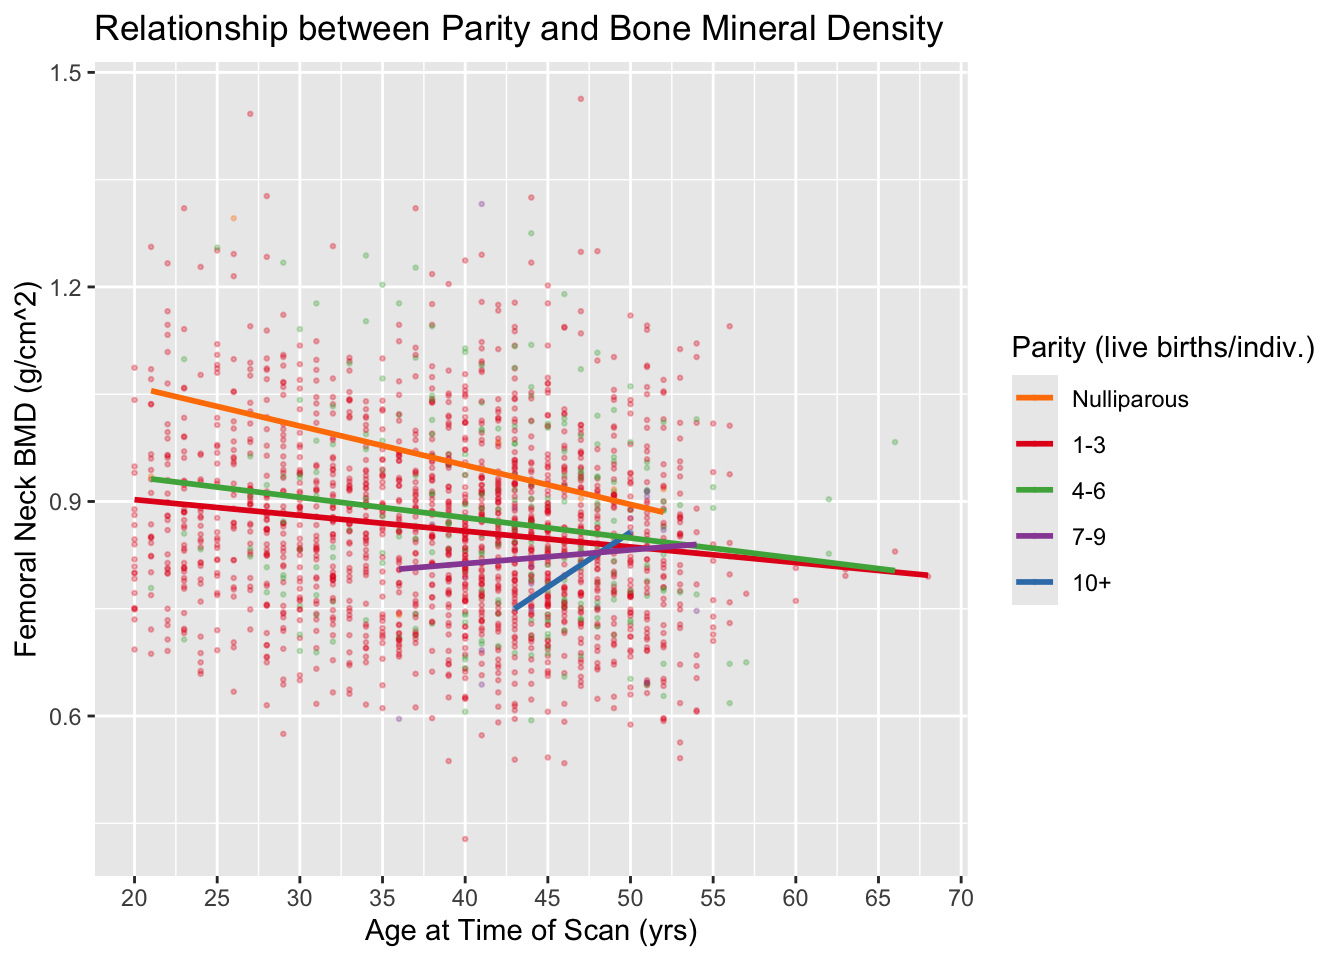
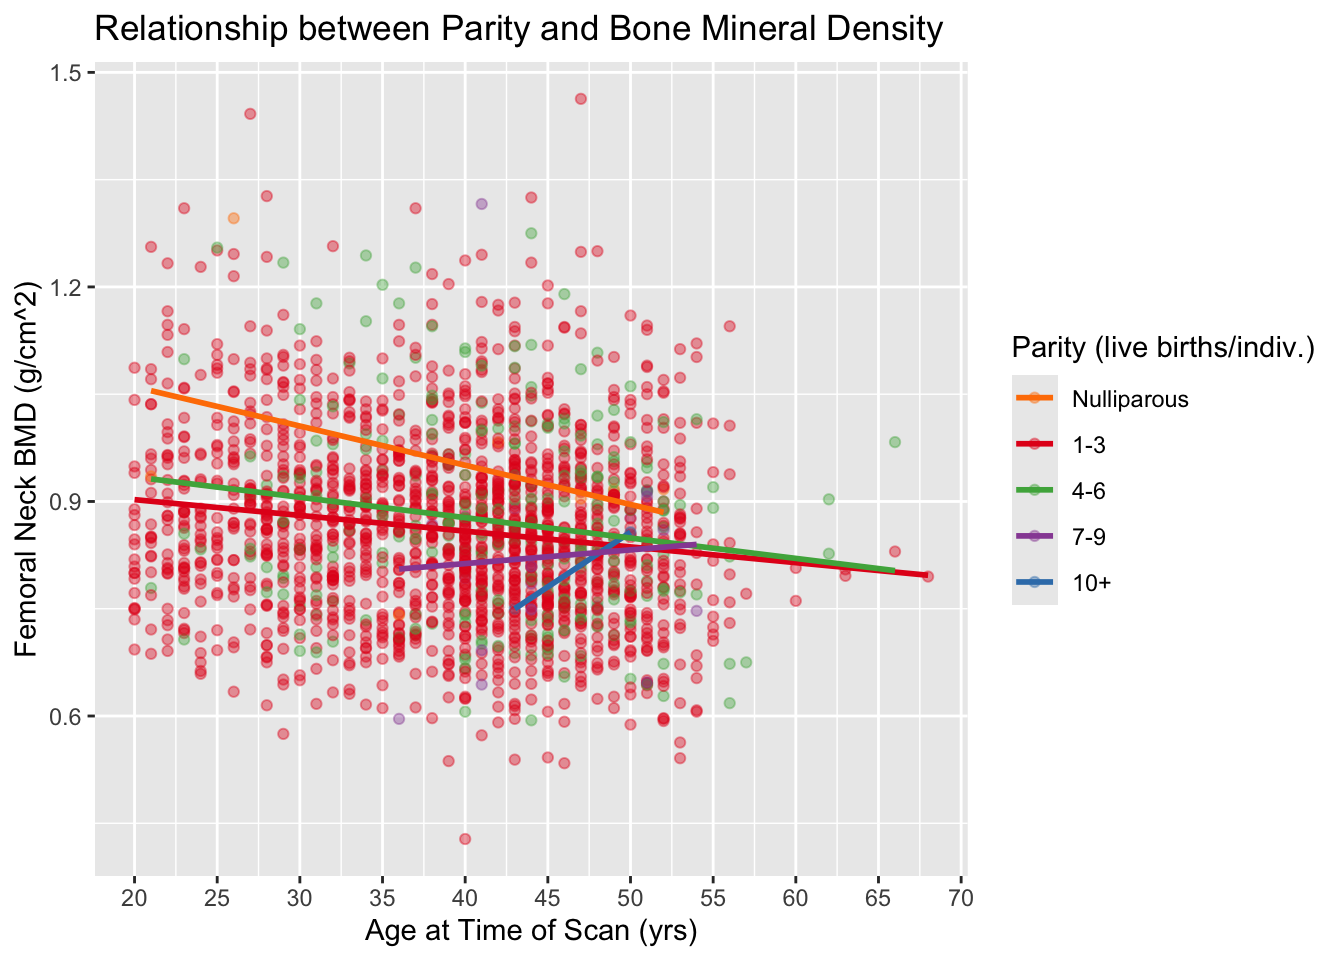
Build site.

diff --git a/docs/analysis.html b/docs/analysis.html
@@ -513,15 +513,15 @@ project makes it easier to run your code on other machines.</p>
 <div class="panel panel-default">
 <div class="panel-heading">
 <p class="panel-title">
-<a data-toggle="collapse" data-parent="#workflowr-checks" href="#strongRepositoryversionstrongahrefhttpsgithubcomcalliquireafbploaaba2025tree35f522218d7bed757a3df731d65090213bc7fdfetargetblank35f5222a">
+<a data-toggle="collapse" data-parent="#workflowr-checks" href="#strongRepositoryversionstrongahrefhttpsgithubcomcalliquireafbploaaba2025tree3853d4d8e3b5dbf5b7f75b25e7be7a337e487ea5targetblank3853d4da">
 <span class="glyphicon glyphicon-ok text-success"
 aria-hidden="true"></span> <strong>Repository version:</strong>
-<a href="https://github.com/calliquire/afb_plo_aaba_2025/tree/35f522218d7bed757a3df731d65090213bc7fdfe" target="_blank">35f5222</a>
+<a href="https://github.com/calliquire/afb_plo_aaba_2025/tree/3853d4d8e3b5dbf5b7f75b25e7be7a337e487ea5" target="_blank">3853d4d</a>
 </a>
 </p>
 </div>
 <div
[2 lines of base64/hex data omitted]
 class="panel-collapse collapse">
 <div class="panel-body">
 <p>
@@ -531,7 +531,7 @@ reproducibility.
 </p>
 <p>
 The results in this page were generated with repository version
-<a href="https://github.com/calliquire/afb_plo_aaba_2025/tree/35f522218d7bed757a3df731d65090213bc7fdfe" target="_blank">35f5222</a>.
+<a href="https://github.com/calliquire/afb_plo_aaba_2025/tree/3853d4d8e3b5dbf5b7f75b25e7be7a337e487ea5" target="_blank">3853d4d</a>.
 See the <em>Past versions</em> tab to see a history of the changes made
 to the R Markdown and HTML files.
 </p>
@@ -550,7 +550,6 @@ Ignored files:
     Ignored:    .RData
     Ignored:    .Rhistory
     Ignored:    .Rproj.user/
-    Ignored:    analysis/figure/
 
 </code></pre>
 <p>
@@ -595,6 +594,40 @@ Message
 </tr>
 </thead>
 <tbody>
+<tr>
+<td>
+Rmd
+</td>
+<td>
+<a href="https://github.com/calliquire/afb_plo_aaba_2025/blob/3853d4d8e3b5dbf5b7f75b25e7be7a337e487ea5/analysis/analysis.Rmd" target="_blank">3853d4d</a>
+</td>
+<td>
+Calli Quire
+</td>
+<td>
+2025-03-11
+</td>
+<td>
+wflow_publish("analysis/analysis.Rmd")
+</td>
+</tr>
+<tr>
+<td>
+html
+</td>
+<td>
+<a href="https://rawcdn.githack.com/calliquire/afb_plo_aaba_2025/5deec848632ecebc1d965d248fcd2c88b3dfc8b4/docs/analysis.html" target="_blank">5deec84</a>
+</td>
+<td>
+Calli Quire
+</td>
+<td>
+2025-03-11
+</td>
+<td>
+Build site.
+</td>
+</tr>
 <tr>
 <td>
 Rmd
@@ -1764,61 +1797,61 @@ more actual analysis
 <h2>Download, install, run relevant packages</h2>
 <pre><code>
 The downloaded binary packages are in
-    /var/folders/ps/8glpgwws46q79hzcgj61tlsr0000gn/T//RtmpfhFL2O/downloaded_packages</code></pre>
+    /var/folders/ps/8glpgwws46q79hzcgj61tlsr0000gn/T//Rtmp2PZTHI/downloaded_packages</code></pre>
 <pre><code>
 The downloaded binary packages are in
-    /var/folders/ps/8glpgwws46q79hzcgj61tlsr0000gn/T//RtmpfhFL2O/downloaded_packages</code></pre>
+    /var/folders/ps/8glpgwws46q79hzcgj61tlsr0000gn/T//Rtmp2PZTHI/downloaded_packages</code></pre>
 <pre><code>
 The downloaded binary packages are in
-    /var/folders/ps/8glpgwws46q79hzcgj61tlsr0000gn/T//RtmpfhFL2O/downloaded_packages</code></pre>
+    /var/folders/ps/8glpgwws46q79hzcgj61tlsr0000gn/T//Rtmp2PZTHI/downloaded_packages</code></pre>
 <pre><code>
 The downloaded binary packages are in
-    /var/folders/ps/8glpgwws46q79hzcgj61tlsr0000gn/T//RtmpfhFL2O/downloaded_packages</code></pre>
+    /var/folders/ps/8glpgwws46q79hzcgj61tlsr0000gn/T//Rtmp2PZTHI/downloaded_packages</code></pre>
 <pre><code>
 The downloaded binary packages are in
-    /var/folders/ps/8glpgwws46q79hzcgj61tlsr0000gn/T//RtmpfhFL2O/downloaded_packages</code></pre>
+    /var/folders/ps/8glpgwws46q79hzcgj61tlsr0000gn/T//Rtmp2PZTHI/downloaded_packages</code></pre>
 <pre><code>
 The downloaded binary packages are in
-    /var/folders/ps/8glpgwws46q79hzcgj61tlsr0000gn/T//RtmpfhFL2O/downloaded_packages</code></pre>
+    /var/folders/ps/8glpgwws46q79hzcgj61tlsr0000gn/T//Rtmp2PZTHI/downloaded_packages</code></pre>
 <pre><code>
 The downloaded binary packages are in
-    /var/folders/ps/8glpgwws46q79hzcgj61tlsr0000gn/T//RtmpfhFL2O/downloaded_packages</code></pre>
+    /var/folders/ps/8glpgwws46q79hzcgj61tlsr0000gn/T//Rtmp2PZTHI/downloaded_packages</code></pre>
 <pre><code>
 The downloaded binary packages are in
-    /var/folders/ps/8glpgwws46q79hzcgj61tlsr0000gn/T//RtmpfhFL2O/downloaded_packages</code></pre>
+    /var/folders/ps/8glpgwws46q79hzcgj61tlsr0000gn/T//Rtmp2PZTHI/downloaded_packages</code></pre>
 <pre><code>
 The downloaded binary packages are in
-    /var/folders/ps/8glpgwws46q79hzcgj61tlsr0000gn/T//RtmpfhFL2O/downloaded_packages</code></pre>
+    /var/folders/ps/8glpgwws46q79hzcgj61tlsr0000gn/T//Rtmp2PZTHI/downloaded_packages</code></pre>
 <pre><code>
 The downloaded binary packages are in
-    /var/folders/ps/8glpgwws46q79hzcgj61tlsr0000gn/T//RtmpfhFL2O/downloaded_packages</code></pre>
+    /var/folders/ps/8glpgwws46q79hzcgj61tlsr0000gn/T//Rtmp2PZTHI/downloaded_packages</code></pre>
 <pre><code>
 The downloaded binary packages are in
-    /var/folders/ps/8glpgwws46q79hzcgj61tlsr0000gn/T//RtmpfhFL2O/downloaded_packages</code></pre>
+    /var/folders/ps/8glpgwws46q79hzcgj61tlsr0000gn/T//Rtmp2PZTHI/downloaded_packages</code></pre>
 <pre><code>
 The downloaded binary packages are in
-    /var/folders/ps/8glpgwws46q79hzcgj61tlsr0000gn/T//RtmpfhFL2O/downloaded_packages</code></pre>
+    /var/folders/ps/8glpgwws46q79hzcgj61tlsr0000gn/T//Rtmp2PZTHI/downloaded_packages</code></pre>
 <pre><code>
 The downloaded binary packages are in
-    /var/folders/ps/8glpgwws46q79hzcgj61tlsr0000gn/T//RtmpfhFL2O/downloaded_packages</code></pre>
+    /var/folders/ps/8glpgwws46q79hzcgj61tlsr0000gn/T//Rtmp2PZTHI/downloaded_packages</code></pre>
 <pre><code>
 The downloaded binary packages are in
-    /var/folders/ps/8glpgwws46q79hzcgj61tlsr0000gn/T//RtmpfhFL2O/downloaded_packages</code></pre>
+    /var/folders/ps/8glpgwws46q79hzcgj61tlsr0000gn/T//Rtmp2PZTHI/downloaded_packages</code></pre>
 <pre><code>
 The downloaded binary packages are in
-    /var/folders/ps/8glpgwws46q79hzcgj61tlsr0000gn/T//RtmpfhFL2O/downloaded_packages</code></pre>
+    /var/folders/ps/8glpgwws46q79hzcgj61tlsr0000gn/T//Rtmp2PZTHI/downloaded_packages</code></pre>
 <pre><code>
 The downloaded binary packages are in
-    /var/folders/ps/8glpgwws46q79hzcgj61tlsr0000gn/T//RtmpfhFL2O/downloaded_packages</code></pre>
+    /var/folders/ps/8glpgwws46q79hzcgj61tlsr0000gn/T//Rtmp2PZTHI/downloaded_packages</code></pre>
 <pre><code>
 The downloaded binary packages are in
-    /var/folders/ps/8glpgwws46q79hzcgj61tlsr0000gn/T//RtmpfhFL2O/downloaded_packages</code></pre>
+    /var/folders/ps/8glpgwws46q79hzcgj61tlsr0000gn/T//Rtmp2PZTHI/downloaded_packages</code></pre>
 <pre><code>
 The downloaded binary packages are in
-    /var/folders/ps/8glpgwws46q79hzcgj61tlsr0000gn/T//RtmpfhFL2O/downloaded_packages</code></pre>
+    /var/folders/ps/8glpgwws46q79hzcgj61tlsr0000gn/T//Rtmp2PZTHI/downloaded_packages</code></pre>
 <pre><code>
 The downloaded binary packages are in
-    /var/folders/ps/8glpgwws46q79hzcgj61tlsr0000gn/T//RtmpfhFL2O/downloaded_packages</code></pre>
+    /var/folders/ps/8glpgwws46q79hzcgj61tlsr0000gn/T//Rtmp2PZTHI/downloaded_packages</code></pre>
 <pre><code>
 Attaching package: &#39;dplyr&#39;</code></pre>
 <pre><code>The following objects are masked from &#39;package:stats&#39;:
@@ -2476,6 +2509,17 @@ Date
 <tbody>
 <tr>
 <td>
+<a href="https://github.com/calliquire/afb_plo_aaba_2025/blob/5deec848632ecebc1d965d248fcd2c88b3dfc8b4/docs/figure/analysis.Rmd/unnamed-chunk-20-3.png" target="_blank">5deec84</a>
+</td>
+<td>
+Calli Quire
+</td>
+<td>
+2025-03-11
+</td>
+</tr>
+<tr>
+<td>
 <a href="https://github.com/calliquire/afb_plo_aaba_2025/blob/63e080404f588fe58127857297b82ba4f31fbd90/docs/figure/analysis.Rmd/unnamed-chunk-20-3.png" target="_blank">63e0804</a>
 </td>
 <td>
@@ -2571,6 +2615,17 @@ Date
 <tbody>
 <tr>
 <td>
+<a href="https://github.com/calliquire/afb_plo_aaba_2025/blob/5deec848632ecebc1d965d248fcd2c88b3dfc8b4/docs/figure/analysis.Rmd/unnamed-chunk-20-4.png" target="_blank">5deec84</a>
+</td>
+<td>
+Calli Quire
+</td>
+<td>
+2025-03-11
+</td>
+</tr>
+<tr>
+<td>
 <a href="https://github.com/calliquire/afb_plo_aaba_2025/blob/63e080404f588fe58127857297b82ba4f31fbd90/docs/figure/analysis.Rmd/unnamed-chunk-20-4.png" target="_blank">63e0804</a>
 </td>
 <td>
@@ -2641,6 +2696,17 @@ Date
 <tbody>
 <tr>
 <td>
+<a href="https://github.com/calliquire/afb_plo_aaba_2025/blob/5deec848632ecebc1d965d248fcd2c88b3dfc8b4/docs/figure/analysis.Rmd/unnamed-chunk-20-5.png" target="_blank">5deec84</a>
+</td>
+<td>
+Calli Quire
+</td>
+<td>
+2025-03-11
+</td>
+</tr>
+<tr>
+<td>
 <a href="https://github.com/calliquire/afb_plo_aaba_2025/blob/63e080404f588fe58127857297b82ba4f31fbd90/docs/figure/analysis.Rmd/unnamed-chunk-20-5.png" target="_blank">63e0804</a>
 </td>
 <td>
@@ -2657,7 +2723,7 @@ Calli Quire
 <pre class="r"><code># ***********************afb
 plot5 &lt;-
   ggplot(df, aes(x = AGE, y = BMD, color = BINS)) + 
-  geom_point(alpha = 0.4, size = 0.5) +
+  geom_point(alpha = 0.4) +
   labs(title = &quot;Relationship between Age at First Birth and Bone Mineral Density&quot;, x = &quot;Age at Time of Scan (yrs)&quot;, y = &quot;Femoral Neck BMD (g/cm^2)&quot;, color = &quot;Age at First Birth (yrs)&quot;) +
   scale_color_brewer(palette = &quot;Set1&quot;) +
   scale_x_continuous(breaks = seq(0, 70, by = 5)) +
@@ -2687,6 +2753,17 @@ Date
 </tr>
 </thead>
 <tbody>
+<tr>
+<td>
+<a href="https://github.com/calliquire/afb_plo_aaba_2025/blob/5deec848632ecebc1d965d248fcd2c88b3dfc8b4/docs/figure/analysis.Rmd/unnamed-chunk-20-6.png" target="_blank">5deec84</a>
+</td>
+<td>
+Calli Quire
+</td>
+<td>
+2025-03-11
+</td>
+</tr>
 <tr>
 <td>
 <a href="https://github.com/calliquire/afb_plo_aaba_2025/blob/63e080404f588fe58127857297b82ba4f31fbd90/docs/figure/analysis.Rmd/unnamed-chunk-20-6.png" target="_blank">63e0804</a>
@@ -2991,7 +3068,7 @@ Signif. codes:  0 &#39;***&#39; 0.001 &#39;**&#39; 0.01 &#39;*&#39; 0.05 &#39;.&
 <pre class="r"><code># ********************* parity
 plot6 &lt;- 
   ggplot(df2, aes(x = AGE, y = BMD, color = PARBIN)) +
-  geom_point(alpha = 0.3, size = 0.5) +
+  geom_point(alpha = 0.4) +
   scale_color_brewer(palette = &quot;Set1&quot;, breaks = c(&#39;Nulliparous&#39;, &#39;1-3&#39;, &#39;4-6&#39;, &#39;7-9&#39;, &#39;10+&#39;)) +
   scale_x_continuous(breaks = seq(0, 70, by = 5)) +
   labs(title = &quot;Relationship between Parity and Bone Mineral Density&quot;, x = &quot;Age at Time of Scan (yrs)&quot;, y = &quot;Femoral Neck BMD (g/cm^2)&quot;, color = &quot;Parity (live births/indiv.)&quot;) +
@@ -2999,6 +3076,43 @@ plot6 &lt;-
 print(plot6)</code></pre>
 <pre><code>`geom_smooth()` using formula = &#39;y ~ x&#39;</code></pre>
 <p><img src="figure/analysis.Rmd/unnamed-chunk-33-1.png" width="672" style="display: block; margin: auto;" /></p>
+<p>
+<button type="button" class="btn btn-default btn-xs btn-workflowr btn-workflowr-fig" data-toggle="collapse" data-target="#fig-unnamed-chunk-33-1">
+Past versions of unnamed-chunk-33-1.png
+</button>
+</p>
+<div id="fig-unnamed-chunk-33-1" class="collapse">
+<div class="table-responsive">
+<table class="table table-condensed table-hover">
+<thead>
+<tr>
+<th>
+Version
+</th>
+<th>
+Author
+</th>
+<th>
+Date
+</th>
+</tr>
+</thead>
+<tbody>
+<tr>
+<td>
+<a href="https://github.com/calliquire/afb_plo_aaba_2025/blob/5deec848632ecebc1d965d248fcd2c88b3dfc8b4/docs/figure/analysis.Rmd/unnamed-chunk-33-1.png" target="_blank">5deec84</a>
+</td>
+<td>
+Calli Quire
+</td>
+<td>
+2025-03-11
+</td>
+</tr>
+</tbody>
+</table>
+</div>
+</div>
 </div>
 <div id="analysis-2" class="section level1">
 <h1>Analysis</h1>
@@ -3027,7 +3141,7 @@ plot8 &lt;-
   geom_boxplot() +
   scale_fill_brewer(palette = &quot;Set1&quot;, breaks=c(&#39;&lt; 27&#39;, &#39;&gt;/= 27&#39;)) +
   scale_x_discrete(limits = c(&#39;1-3&#39;, &#39;4-6&#39;, &#39;7-9&#39;, &#39;10+&#39;)) +
-  geom_jitter(size = 0.4, alpha = 0.3) +
+  geom_jitter(size = 0.5, alpha = 0.3) +
   labs(title = &quot;Relationship between Parity &amp; Age at First Birth and Bone Mineral Density&quot;, y =  &quot;Femoral Neck BMD (g/cm^2)&quot;, x = &quot;Parity (live births/indiv.)&quot;, fill = &quot;Age at First Birth (yrs)&quot;)
 print(plot8)</code></pre>
 <p><img src="figure/analysis.Rmd/unnamed-chunk-34-1.png" width="672" style="display: block; margin: auto;" /></p>
@@ -3053,6 +3167,17 @@ Date
 </tr>
 </thead>
 <tbody>
+<tr>
+<td>
+<a href="https://github.com/calliquire/afb_plo_aaba_2025/blob/5deec848632ecebc1d965d248fcd2c88b3dfc8b4/docs/figure/analysis.Rmd/unnamed-chunk-34-1.png" target="_blank">5deec84</a>
+</td>
+<td>
+Calli Quire
+</td>
+<td>
+2025-03-11
+</td>
+</tr>
 <tr>
 <td>
 <a href="https://github.com/calliquire/afb_plo_aaba_2025/blob/63e080404f588fe58127857297b82ba4f31fbd90/docs/figure/analysis.Rmd/unnamed-chunk-34-1.png" target="_blank">63e0804</a>
